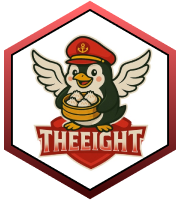
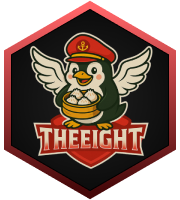
hotfix: fix styling issues on drag over

diff --git a/src/components/hex-tiles/ButtonTile.tsx b/src/components/hex-tiles/ButtonTile.tsx
@@ -5,6 +5,7 @@ import type { HexImageProps } from '@/components/hex-tiles/HexImage';
 import type { DragEvent, FC, ReactNode } from 'react';
 
 import HexImage from '@/components/hex-tiles/HexImage';
+import { createDragClone } from '@/components/hex-tiles/utils';
 import Tooltip from '@/components/tooltip/Tooltip';
 import { joinStrings } from '@/utils/utils';
 
@@ -20,6 +21,7 @@ interface ButtonTileProps extends HexImageProps {
 }
 
 const ButtonTile: FC<ButtonTileProps> = ({
+  src,
   ariaLabel,
   disabled,
   onClick,
@@ -29,7 +31,6 @@ const ButtonTile: FC<ButtonTileProps> = ({
   onDrop,
   className,
   tooltip,
-  selected,
   ...props
 }) => {
   const ref = useRef<HTMLButtonElement>(null);
@@ -40,32 +41,28 @@ const ButtonTile: FC<ButtonTileProps> = ({
       onDragStart(e);
     }
 
-    const clone = e.currentTarget.cloneNode(true) as HTMLElement;
-    clone.style.position = 'absolute';
-    clone.style.top = '-9999px';
-    clone.style.left = '-9999px';
-    clone.style.zIndex = '9999';
-    document.body.appendChild(clone);
-
-    e.dataTransfer.setDragImage(clone, clone.offsetWidth / 2, clone.offsetHeight / 2);
-
-    requestAnimationFrame(() => {
-      document.body.removeChild(clone);
-    });
+    createDragClone(e, { width: '4rem' });
   };
 
   const handleDragOver = (e: DragEvent<HTMLButtonElement>) => {
     if (onDragOver) {
       onDragOver(e);
     }
-    if (!disabled) {
+
+    const types = e.dataTransfer.types;
+
+    const isValid = types.includes('application/arena-hero') || types.includes('application/hero');
+    if (!disabled && isValid) {
       setIsDragOver(true);
+    } else {
+      setIsDragOver(false);
     }
   };
 
   const handleDragLeave = () => {
     setIsDragOver(false);
   };
+
   const handleDrop = (e: DragEvent<HTMLButtonElement>) => {
     if (onDrop) {
       onDrop(e);
@@ -79,7 +76,7 @@ const ButtonTile: FC<ButtonTileProps> = ({
         ref={ref}
         className={joinStrings(
           'hex-button cursor-pointer peer pointer-events-auto disabled:cursor-auto ',
-          isDragOver && 'scale-105',
+          isDragOver && 'drag-overlay scale-105',
           draggable && 'hover:scale-105',
           className,
         )}
@@ -91,9 +88,9 @@ const ButtonTile: FC<ButtonTileProps> = ({
         onDragOver={handleDragOver}
         onDragLeave={handleDragLeave}
         onDrop={handleDrop}
-        onDragEnd={() => setIsDragOver(false)}
+        onDragEnd={handleDragLeave}
       >
-        <HexImage disabled={disabled} draggable={draggable} selected={selected || isDragOver} {...props} />
+        <HexImage src={src} disabled={disabled} draggable={draggable} {...props} />
       </button>
       {tooltip && (
         <Tooltip className="text-xs bottom-0 translate-y-2/3 text-center" preWrapText={false}>

diff --git a/src/app/(main)/editor/page.tsx b/src/app/(main)/editor/page.tsx
@@ -1,4 +1,5 @@
 'use client';
+import { Icon } from '@iconify/react/dist/iconify.js';
 import { useState } from 'react';
 
 import type { UnitFormationData } from '@/components/formation/types';
@@ -9,6 +10,7 @@ import FormationEditor from '@/components/formation/FormationEditor';
 import { FormationProvider } from '@/components/formation/FormationProvider';
 import Button from '@/components/inputs/button/Button';
 import Toggle from '@/components/inputs/toggle/Toggle';
+import { ArtifactSet } from '@/utils/types';
 
 const maxTeams = 15;
 
@@ -28,17 +30,35 @@ const Index: FC = () => {
     <>
       <Container>
         <div className="container-primary flex flex-col gap-2 items-center xl:w-fit">
-          <Toggle
-            variant="switch"
-            value="sidebar-background"
-            activeLabel="Check Duplicates"
-            onChange={e => {
-              setUnique(e.target.checked);
-            }}
-            defaultChecked={unique}
-            tooltip={<p className="text-sm">Check for duplicate heroes across all teams</p>}
-            solidTooltip={true}
-          />
+          <div className="flex flex-row gap-2 w-full justify-center">
+            <Toggle
+              variant="switch"
+              value="sidebar-background"
+              activeLabel="Check ALL Duplicates"
+              onChange={e => {
+                setUnique(e.target.checked);
+              }}
+              defaultChecked={unique}
+              tooltip={<p className="text-sm">Check for duplicate heroes across all teams</p>}
+              solidTooltip={true}
+            />
+            <Button
+              className="inline-flex gap-1 justify-center items-center"
+              size="sm"
+              hierarchy="warning"
+              onClick={() => {
+                teamArray.forEach(([, setUnits]) => {
+                  setUnits(prevUnits =>
+                    Object.fromEntries(Object.entries(prevUnits).filter(([, data]) => ArtifactSet.has(data.unit))),
+                  );
+                });
+              }}
+            >
+              <Icon icon="tabler:user-x" className="size-6" />
+              {'Clear ALL Units'}
+            </Button>
+          </div>
+
           <div className="grid grid-cols-5 w-fit gap-2 xl:flex xl:flex-row xl:flex-wrap xl:items-center xl:justify-center">
             {teams.map((_, i) => (
               <>

diff --git a/src/components/formation/ButtonArtifact.tsx b/src/components/formation/ButtonArtifact.tsx
@@ -1,12 +1,12 @@
 'use client';
 
 import type { CommunityLogos } from '@/components/hex-tiles/types';
-import type { FC } from 'react';
+import type { DragEvent, FC } from 'react';
 
 import { useFormation } from '@/components/formation/FormationProvider';
 import HexImage from '@/components/hex-tiles/HexImage';
 import Logo from '@/components/hex-tiles/Logo';
-import { getArtifactPath } from '@/components/hex-tiles/utils';
+import { createDragClone, getArtifactPath } from '@/components/hex-tiles/utils';
 
 interface ButtonArtifactProps {
   index: number;
@@ -35,10 +35,18 @@ const ButtonArtifact: FC<ButtonArtifactProps> = ({
   const isArtifactDisabled = () => hideArtifacts || disableArtifacts || (hideEmptyArtifact && !artifact);
   const logoHex = <Logo logo={logo} hideLogo={hideLogo} />;
 
+  const handleDragStart = (e: DragEvent<HTMLButtonElement>) => {
+    createDragClone(e);
+  };
+
   return (
     <>
       {isReverse && logoHex}
-      <button className="cursor-pointer disabled:cursor-auto" onClick={() => setArtifact(index, artifact)}>
+      <button
+        className="cursor-pointer disabled:cursor-auto"
+        onClick={() => setArtifact(index, artifact)}
+        onDragStart={handleDragStart}
+      >
         <HexImage
           src={artifact || 'Artifact-Hex'}
           selected={currentArtifact === index && !hideArtifacts}

diff --git a/src/components/hex-tiles/utils.ts b/src/components/hex-tiles/utils.ts
@@ -1,4 +1,5 @@
 import type { ImagePath } from '@/utils/types';
+import type { DragEvent } from 'react';
 
 import {
   ArtifactHexSet,
@@ -89,4 +90,26 @@ export const getPath = (unit: string): ImagePath => {
   }
 
   return getUnitPath(unit);
+};
+
+export const createDragClone = (e: DragEvent<HTMLButtonElement>, options?: { width: `${number}rem` }) => {
+  const clone = (e.currentTarget.cloneNode(true) as HTMLElement).querySelector('.hex-icon') as HTMLElement;
+  clone.querySelectorAll('.drag-ignore').forEach(el => {
+    el.remove();
+  });
+  clone.style.position = 'absolute';
+  clone.style.top = '-9999px';
+  clone.style.left = '-9999px';
+  clone.style.zIndex = '9999';
+  if (options) {
+    clone.style.minWidth = options?.width;
+    clone.style.maxWidth = options?.width;
+  }
+  document.body.appendChild(clone);
+
+  e.dataTransfer.setDragImage(clone, clone.offsetWidth / 2, clone.offsetHeight / 2);
+
+  requestAnimationFrame(() => {
+    document.body.removeChild(clone);
+  });
 };

diff --git a/src/components/hex-tiles/HexImage.tsx b/src/components/hex-tiles/HexImage.tsx
@@ -44,7 +44,7 @@ const HexImage: FC<HexImageProps> = ({
   forceOutline,
   exportIgnore,
   tooltip,
-  draggable,
+  draggable = false,
 }) => {
   const Asset: FC<{ imageSrc: string; zIndex?: `z-${number}`; className?: string }> = ({
     imageSrc,
@@ -95,7 +95,7 @@ const HexImage: FC<HexImageProps> = ({
       {assetSrcs.map((imageSrc, layer) => (
         <Asset
           key={`${imageSrc}-${layer}`}
-          className={exportIgnore ? exclusionClasses[0] : undefined}
+          className={joinStrings(exportIgnore && exclusionClasses[0], layer > 0 && 'drag-ignore')}
           imageSrc={imageSrc}
           zIndex={layer ? `z-${layer}` : undefined}
         />

diff --git a/src/styles/globals.css b/src/styles/globals.css
@@ -135,7 +135,7 @@
   .hex-icon {
     aspect-ratio: 18 / 20;
   }
-  .hex-overlay::after {
+  .hex-overlay::after, .drag-overlay::after {
     @apply absolute opacity-0 inset-0 pointer-events-none disabled:bg-none;
     content: "";
     mask-image: url('/assets/images/hexes/base/Generic-Hex.png'); 
@@ -145,7 +145,7 @@
     --webkit-transition: ease-in-out .1s;
     transition-propery: all;
   }
-  .hex-overlay:hover::after {
+  .hex-overlay:hover::after, .drag-overlay::after {
     @apply bg-white opacity-20;
   }
   .disabled-overlay::after {
